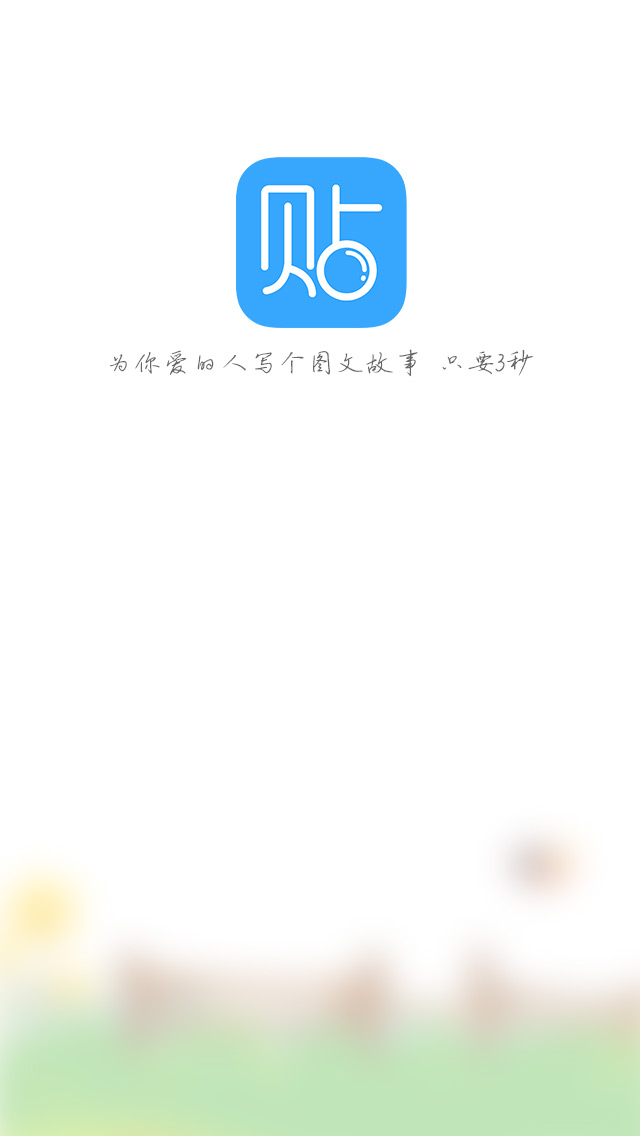
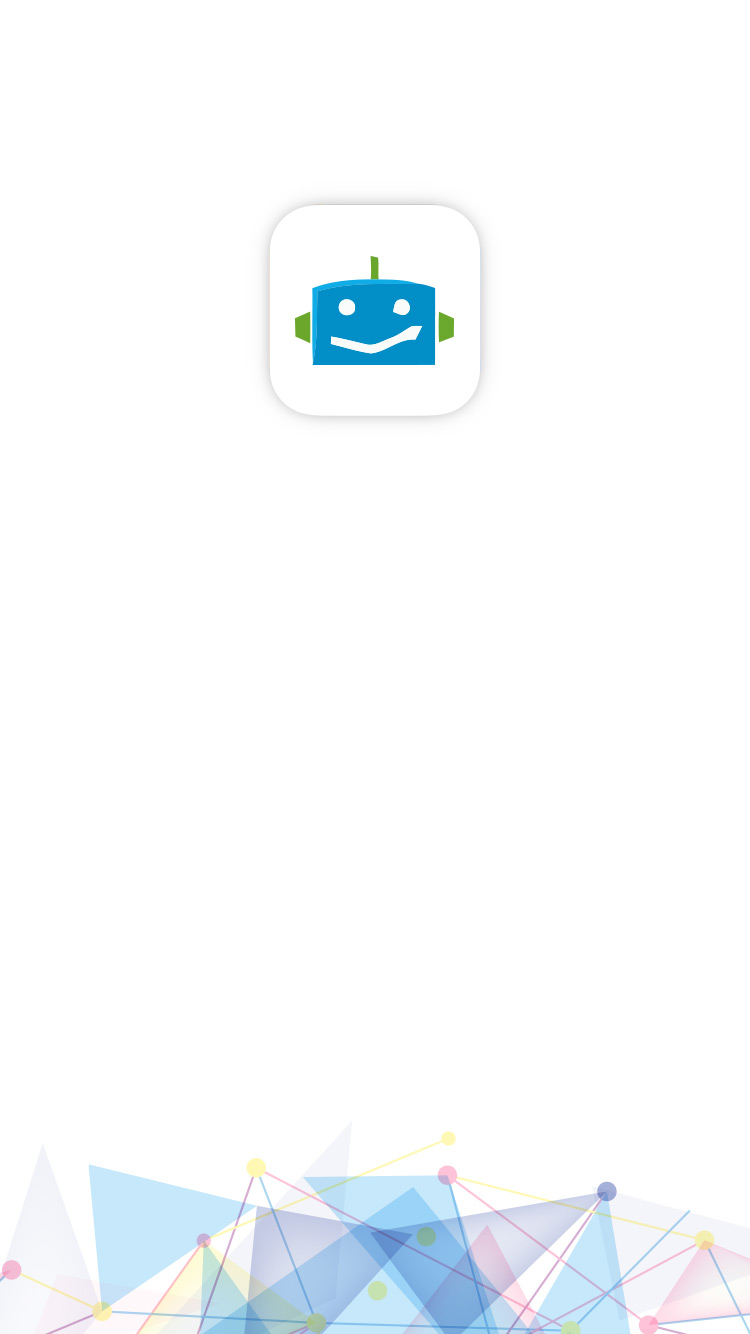
remove something about hotshare, such as splashscreen, etc. (#1333)
* change loginbg img.

* remove first splash .

* fix plugins config.

* change notifiTips in dashboard.

* fix splashscreen plugin build error in android platform.

*  optimize chatRoom list style.

* fix splashscreen plugin config.

* set withShareStoryGroup to false.

diff --git a/hotShareMobile/client/user/dashboard/dashboard.html b/hotShareMobile/client/user/dashboard/dashboard.html
@@ -16,7 +16,7 @@
         <div class="blacklist boxTitle ripple-label">{{_ "blacklist"}}<span><i class="fa fa-angle-right fa-fw"></i></span></div>
       </div>
       <div class="appSetting box">
-        <div class="readFollowTips  bottomBorder boxTitle">{{_ "readFollowTips"}}
+        <!-- <div class="readFollowTips  bottomBorder boxTitle">{{_ "readFollowTips"}}
           <span class="right" style="margin-right: 18px;color: #a1a1a1;">
             {{#if showFollowTips}}
             <i class="fa fa-toggle-on" aria-hidden="true" style="font-size:40px; color:#00c4ff"></i>
@@ -24,7 +24,7 @@
             <i class="fa fa-toggle-off" aria-hidden="true" style="font-size:40px;"></i>
             {{/if}}
           </span>
-        </div>
+        </div> -->
 
         <!--
         <div class='info bottomBorder boxTitle'>编辑个人资料<span><i class="fa fa-angle-right fa-fw"></i></span></div>
@@ -143,7 +143,7 @@
         <div class="box">
           <div class='boxTitle ripple-label'>{{_ "notifiButton"}}</div>
         </div>
-        <div class="smallcontent">{{_ "notifiTipsIos"}}</div>
+        <div class="smallcontent">如果你要关闭或开启WorkAI的新消息通知，请在“设置”-“通知”功能中，找到应用程序“WorkAI”更改。</div>
         <!--
         <div class="box">
           <div class='boxTitle'>通知显示消息详情
@@ -159,7 +159,7 @@
         <div class="box">
             <div class='boxTitle ripple-label'>{{_ "notifiButton"}}</div>
         </div>
-        <div class="smallcontent">{{_ "notifiTips"}}</div>
+        <div class="smallcontent">如果你要关闭或开启WorkAI的新消息通知，请在系统设置中，找到应用程序“WorkAI”更改}</div>
         <!--
         <div class="box">
           <div class='bottomBorder boxTitle'>接收新消息通知

diff --git a/hotShareMobile/client/home/home.html b/hotShareMobile/client/home/home.html
@@ -1,7 +1,7 @@
 <template name="home">
-  {{#if isFirstLog}}
+  <!-- {{#if isFirstLog}}
     {{> splashScreen}}
-  {{else}}
+  {{else}} -->
   <div class="home">
     {{#if wasLogon}}
       <div class="head">
@@ -29,10 +29,10 @@
       <div class="head-icon"></div>
       <div class="closebtn"></div>
       <h3 class="title">给个评价呗！</h3>
-      <div class="text">喜欢故事贴么？来表达一下你的想法？</div>
+      <div class="text">喜欢WorkAI么？来表达一下你的想法？</div>
       <h3 class="btn-rate1">吐槽一下</h3>
       <h3 class="btn-rate2">鼓励一下！</h3>
     </div>
   </div>
- {{/if}}
+<!--  {{/if}} -->
 </template>

diff --git a/hotShareMobile/imports/ui/stylesheets/chatGroups.less b/hotShareMobile/imports/ui/stylesheets/chatGroups.less
@@ -1,5 +1,6 @@
 .chatGroups .content{position:relative;padding-top: 40px;padding-bottom: 55px;-webkit-touch-callout: none;}
-.chatGroups .content .contentList .icon{width: 60px;height: 60px;margin: 10px;}
+.chatGroups .content .contentList .groupsItem{margin-top: 10px;margin-bottom: 10px;}
+.chatGroups .content .contentList .icon{width: 60px;height: 60px;margin-left: 10px;margin-right: 10px;}
 .chatGroups .content .contentList .groupsName{color: black;}
 .chatGroups .line{text-align:center;width: 100%; height: 1px; padding: 5px 0px;}
 .chatGroups .line span{background: #333; width: 100%; height: 1px; display: block;}
